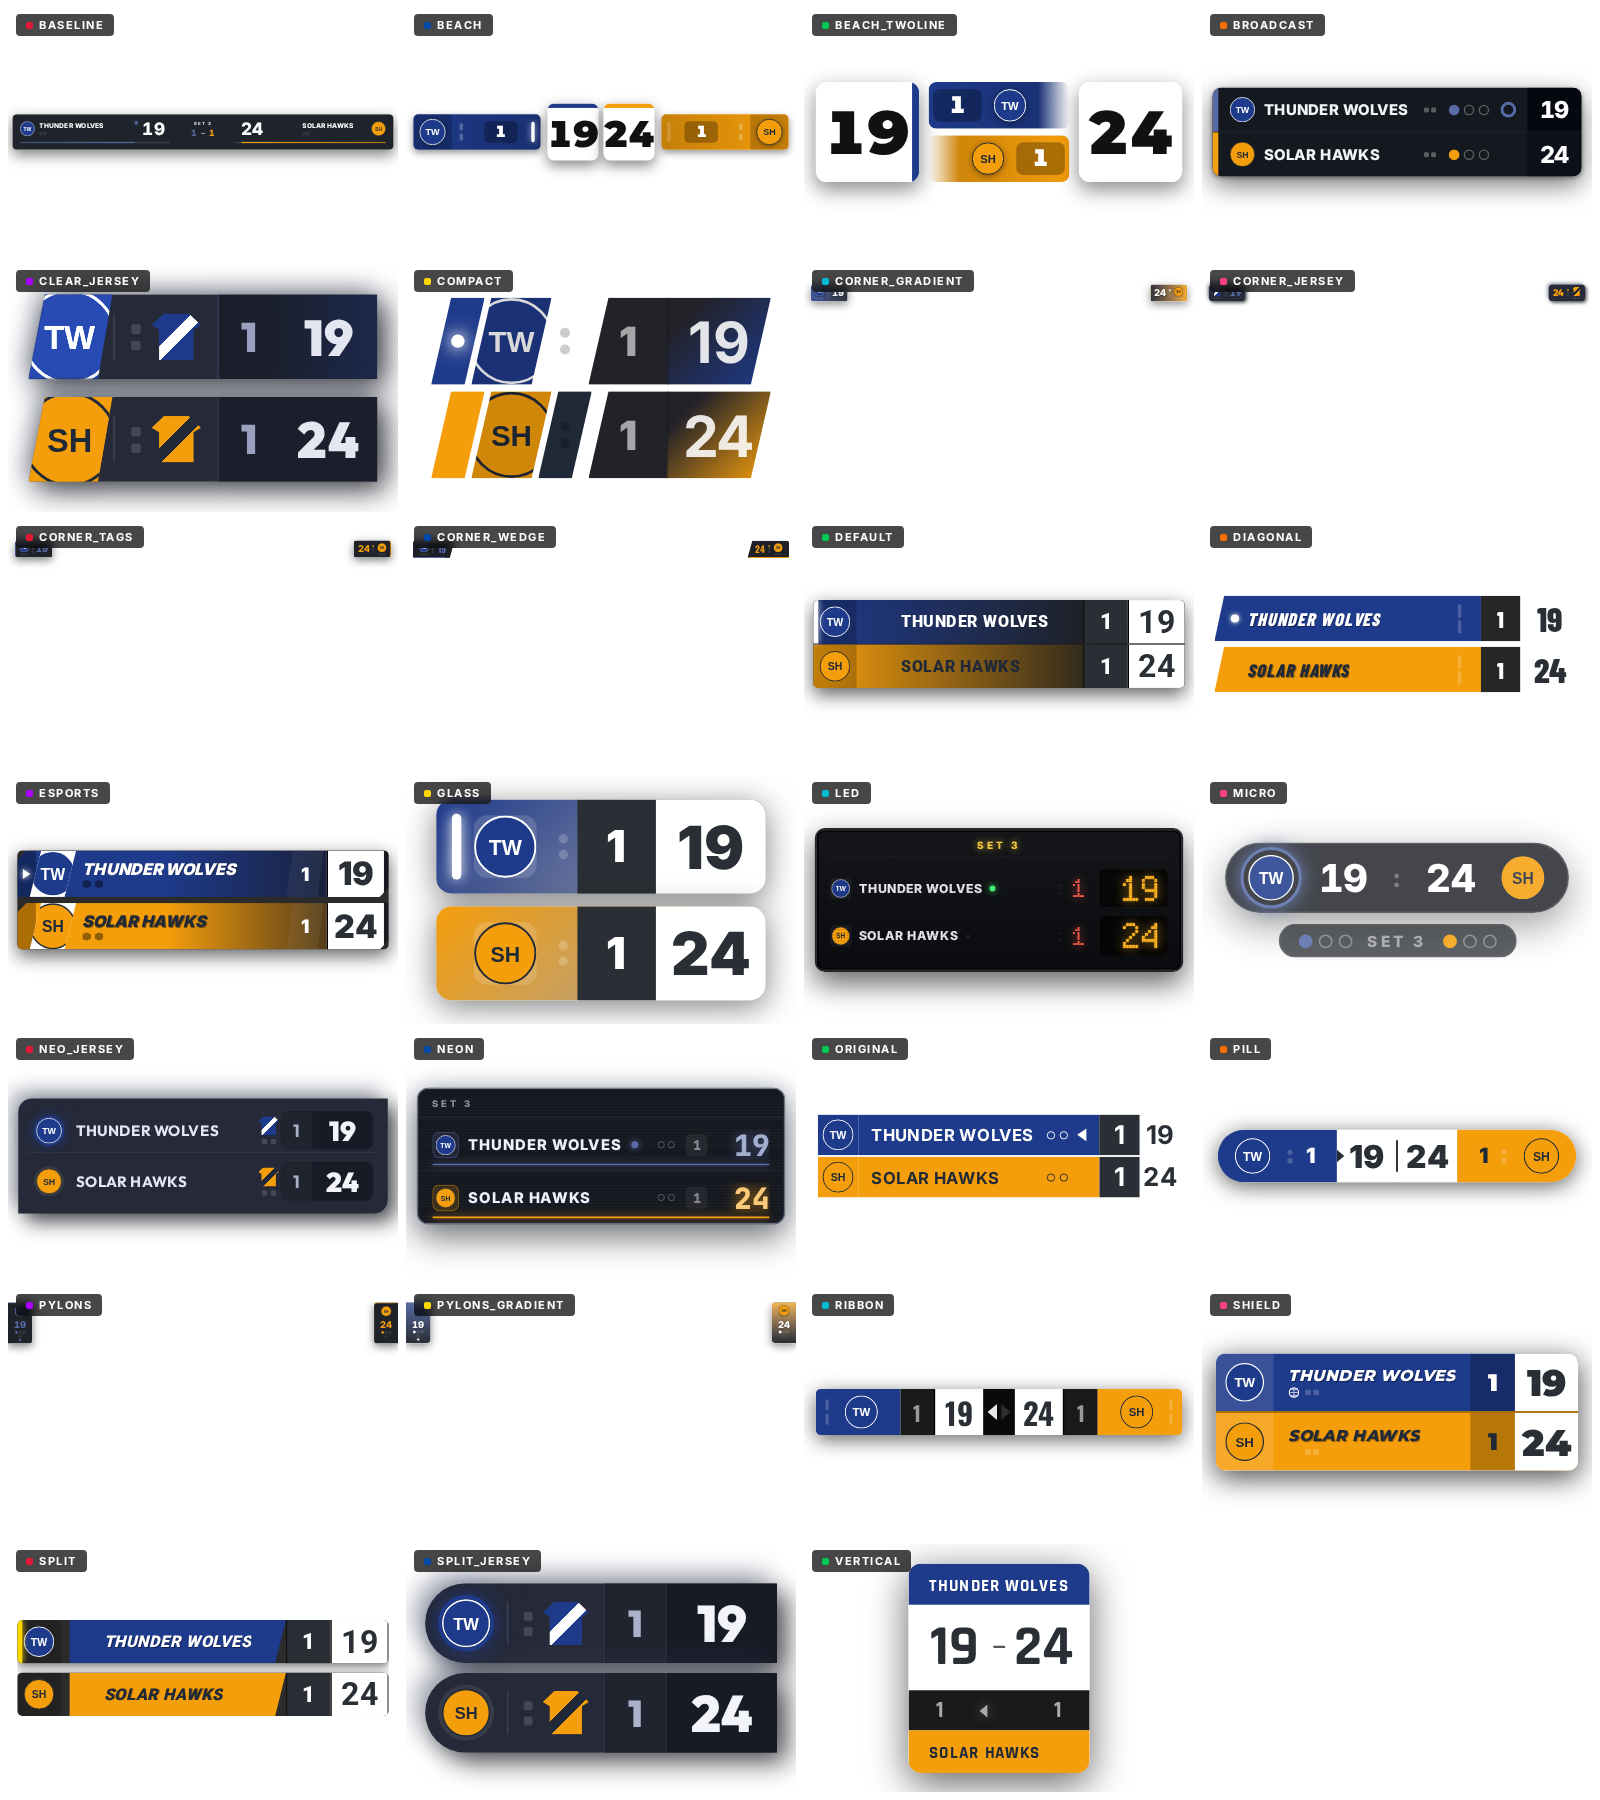
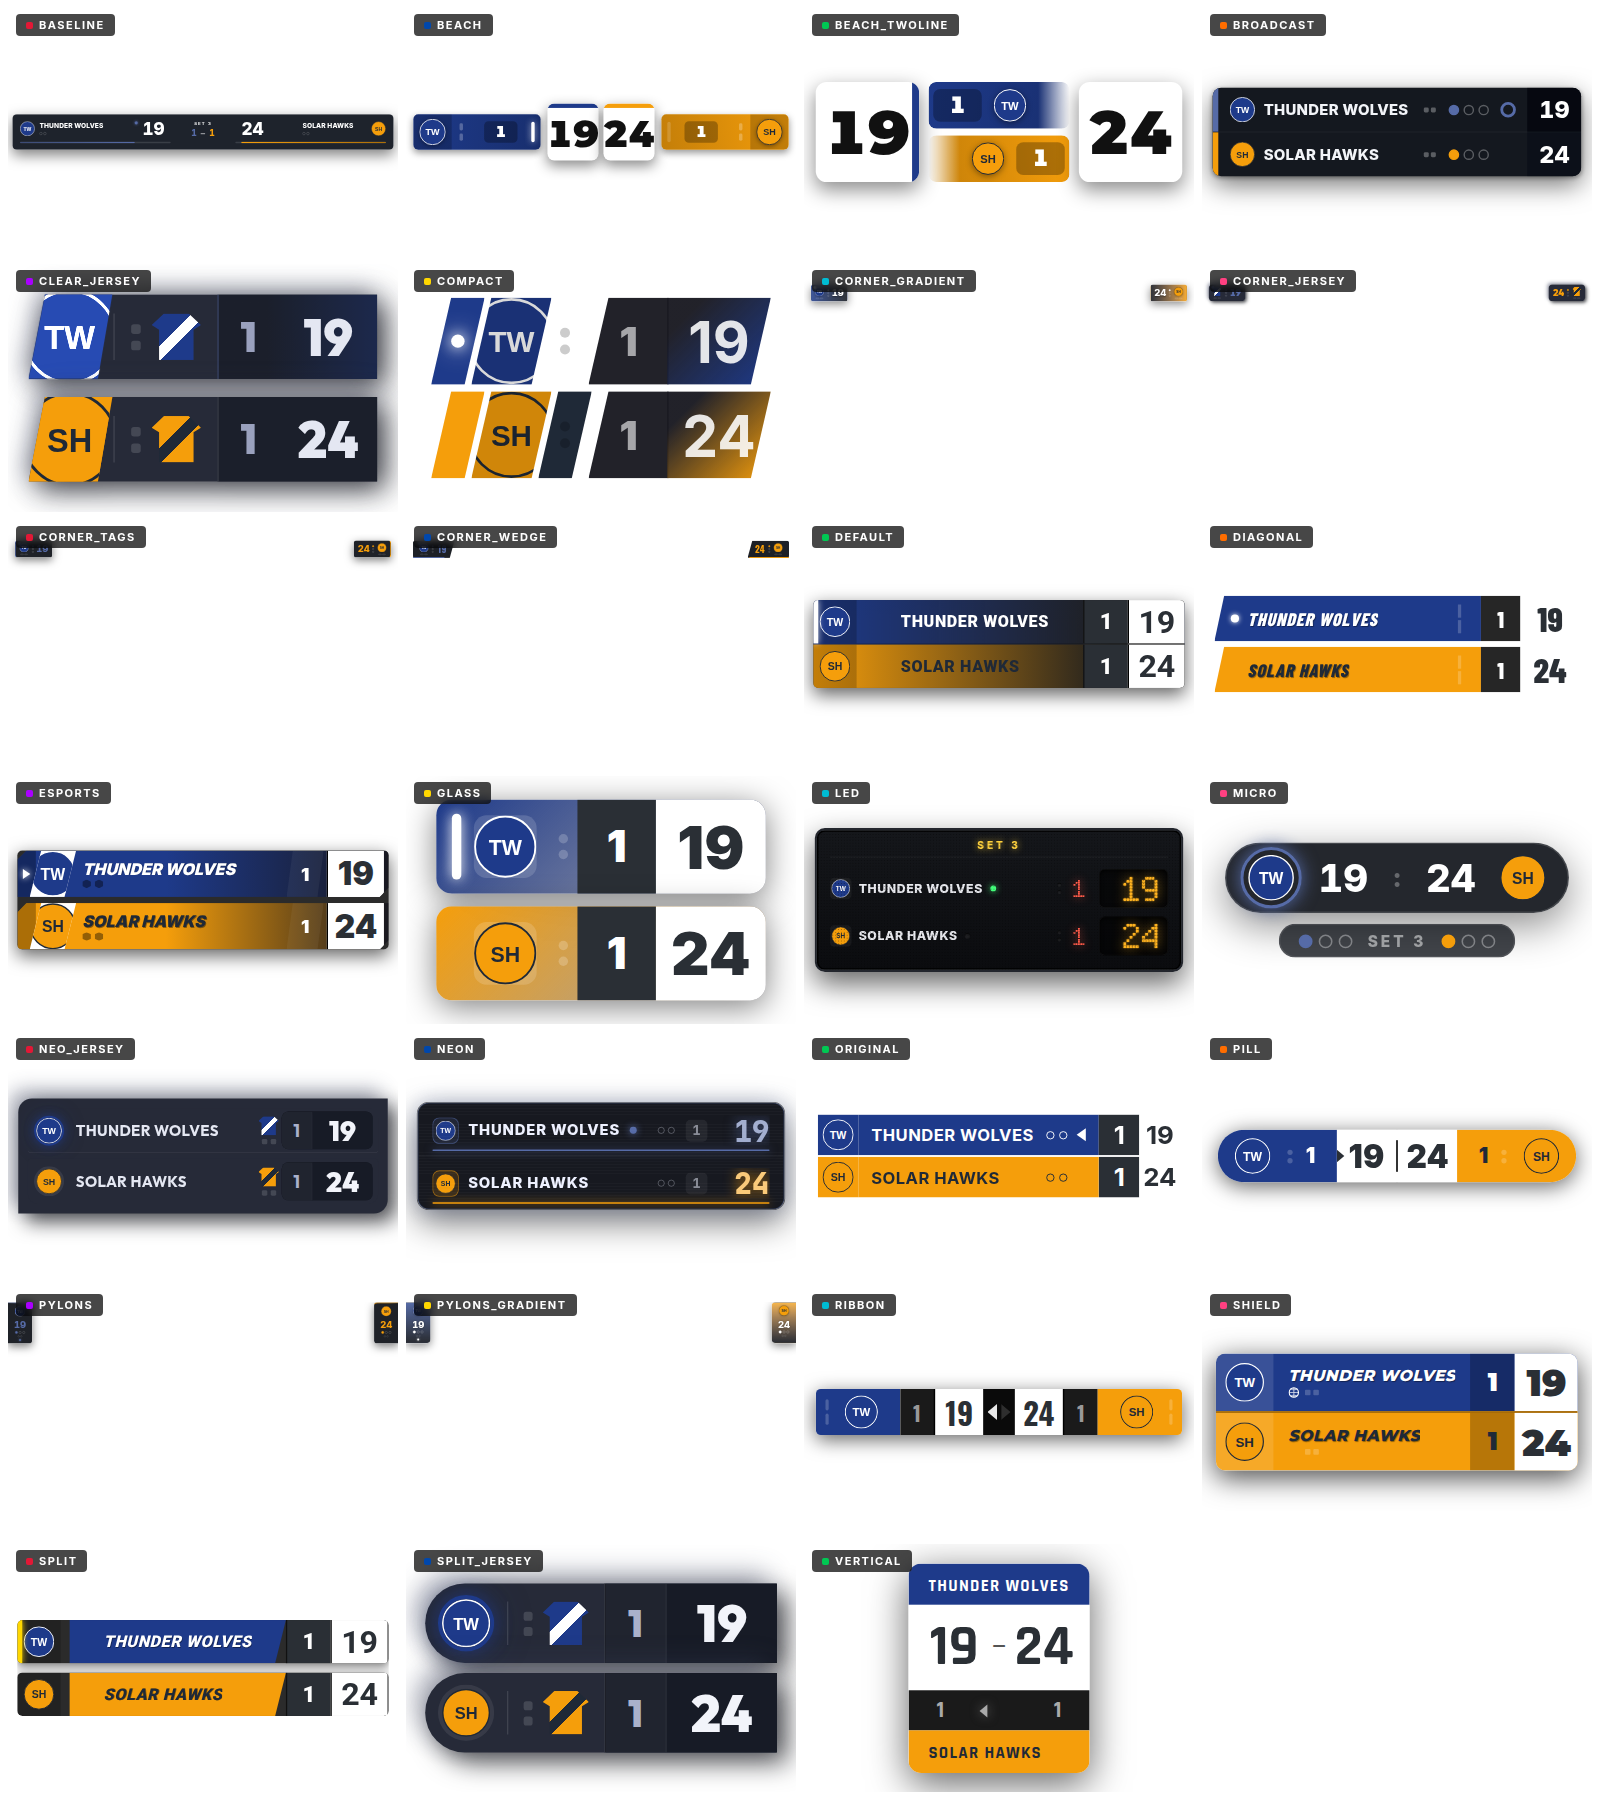
feat(overlay): hide the neon header in compact mode
The operator's "show only current set" toggle used to hide just the
per-set history chips on `neon`, leaving the card's top strip in place
with nothing in it but the localized `SET n` label — an empty row above
the two team rows. Compact mode now collapses the whole header, so the
card is only the two rows and gives back ~37px of screen.

The header is the card's top edge, so it animates shut (max-height,
padding, divider and opacity) rather than popping: flipping the toggle
mid-match is not a jump cut on air. `min-height` is zeroed alongside
`max-height` because it would otherwise win and leave an 18px stub, and
the base rule gets the `overflow: hidden` + `max-height` the collapse
animates from — 60px, well clear of the 36px the label and a full row
of chips actually occupy, so nothing is clipped outside compact mode.

Verified in Chromium against a live backend: full 37px header with no
clipping outside compact mode, 0px and invisible inside it in both the
dark and light card surfaces, card height 174px → 137px, and the live
toggle sampled mid-collapse (32 → 24 → 13 → 4 → 1 → 0) rather than
jumping. `07-overlay-mosaic-simple.png` regenerated.

Claude-Session: https://claude.ai/code/session_01NAB5tJgswmvnTduaHcNxhV

diff --git a/overlay_static/css/neon.css b/overlay_static/css/neon.css
@@ -86,6 +86,18 @@ body {
   color: rgba(238, 241, 255, 0.55);
   border-bottom: 1px solid rgba(255, 255, 255, 0.07);
   min-height: 18px;
+  /* Collapse machinery for compact mode (see the block at the end of
+       this file). ``max-height`` is the animatable stand-in for the
+       row's natural height: generous enough that the label and chips
+       are never clipped here, small enough that the close animation
+       starts moving immediately. */
+  max-height: 60px;
+  overflow: hidden;
+  transition:
+    max-height 0.4s ease,
+    padding 0.4s ease,
+    border-bottom-width 0.4s ease,
+    opacity 0.3s ease;
 }
 .head-history {
   display: flex;
@@ -352,8 +364,18 @@ body.overlay-theme-light .team-away .points {
   text-shadow: none;
 }
 
-/* Compact mode (operator's "only current set" toggle): drop the
-   header history chips. */
-.compact-mode .head-history {
-  display: none;
+/* ── Compact mode (operator's "only current set" toggle) ──
+   Drop the whole header — localized set label and per-set history
+   chips alike — so the card collapses to the two team rows. The
+   header is the card's top edge, so it animates shut (height,
+   padding and the divider all to zero) instead of popping on air;
+   ``min-height`` has to go too, since it would otherwise win over
+   ``max-height: 0``. */
+.compact-mode .head {
+  max-height: 0;
+  min-height: 0;
+  padding-top: 0;
+  padding-bottom: 0;
+  border-bottom-width: 0;
+  opacity: 0;
 }

diff --git a/tests/test_overlay_asset_quality_gates.py b/tests/test_overlay_asset_quality_gates.py
@@ -1,6 +1,7 @@
 """Keep the on-air overlay assets inside the JavaScript/CSS quality gates."""
 
 import json
+import re
 from pathlib import Path
 
 import yaml
@@ -59,3 +60,20 @@ def test_long_team_names_keep_an_older_obs_wrapping_fallback() -> None:
         "overlay_static/css/vertical.css",
     ):
         assert fallback in _read(stylesheet), stylesheet
+
+
+def test_neon_compact_mode_collapses_the_whole_header() -> None:
+    """Simple mode must hide `neon`'s header, chips and set label alike.
+
+    The header carries a ``min-height``, which would win over the
+    ``max-height: 0`` collapse and leave an 18px stub across the top of
+    the card — so both have to be zeroed together.
+    """
+    css = _read("overlay_static/css/neon.css")
+
+    match = re.search(r"\.compact-mode \.head \{([^}]*)\}", css)
+    assert match, "neon.css no longer collapses .head in compact mode"
+    block = match.group(1)
+
+    for declaration in ("max-height: 0", "min-height: 0"):
+        assert declaration in block, declaration

diff --git a/CHANGELOG.md b/CHANGELOG.md
@@ -14,6 +14,18 @@ archive by hand.
 
 ## [Unreleased]
 
+### Changed
+
+- **`neon` simple mode now hides the whole header, not just the set-history
+  chips.** The operator's "show only current set" toggle left the card's top
+  strip in place with nothing in it but the localized `SET n` label — a row of
+  empty space above the two team rows. It now collapses the header entirely,
+  so the card is just the two rows (logo, name, serve lamp, timeout dots, sets
+  won, points) and gives back ~37px of screen. The collapse animates shut
+  rather than popping, so flipping the toggle mid-match is not a jump cut on
+  air, and both the dark and light card surfaces are covered. Screenshots
+  regenerated (`07-overlay-mosaic-simple.png`).
+
 ### Fixed
 
 - **Regenerating an overlay's control link — or switching its permanent
